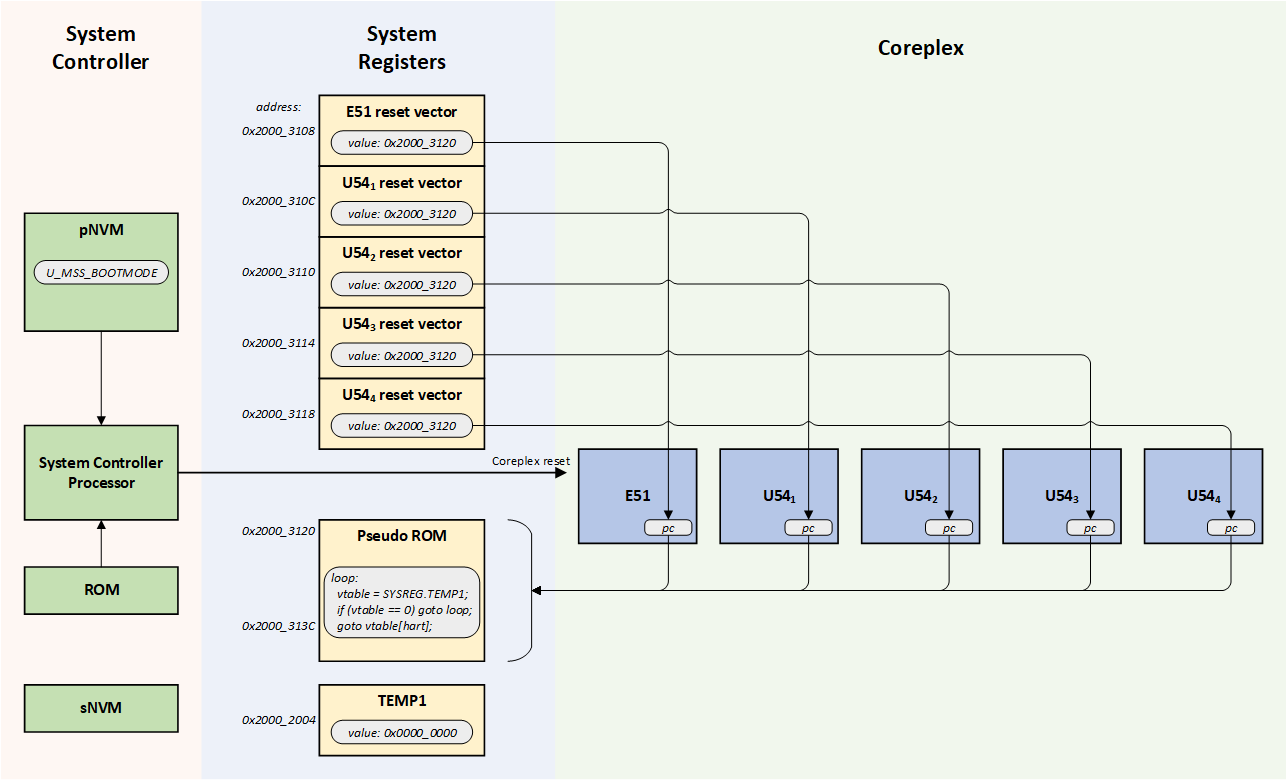
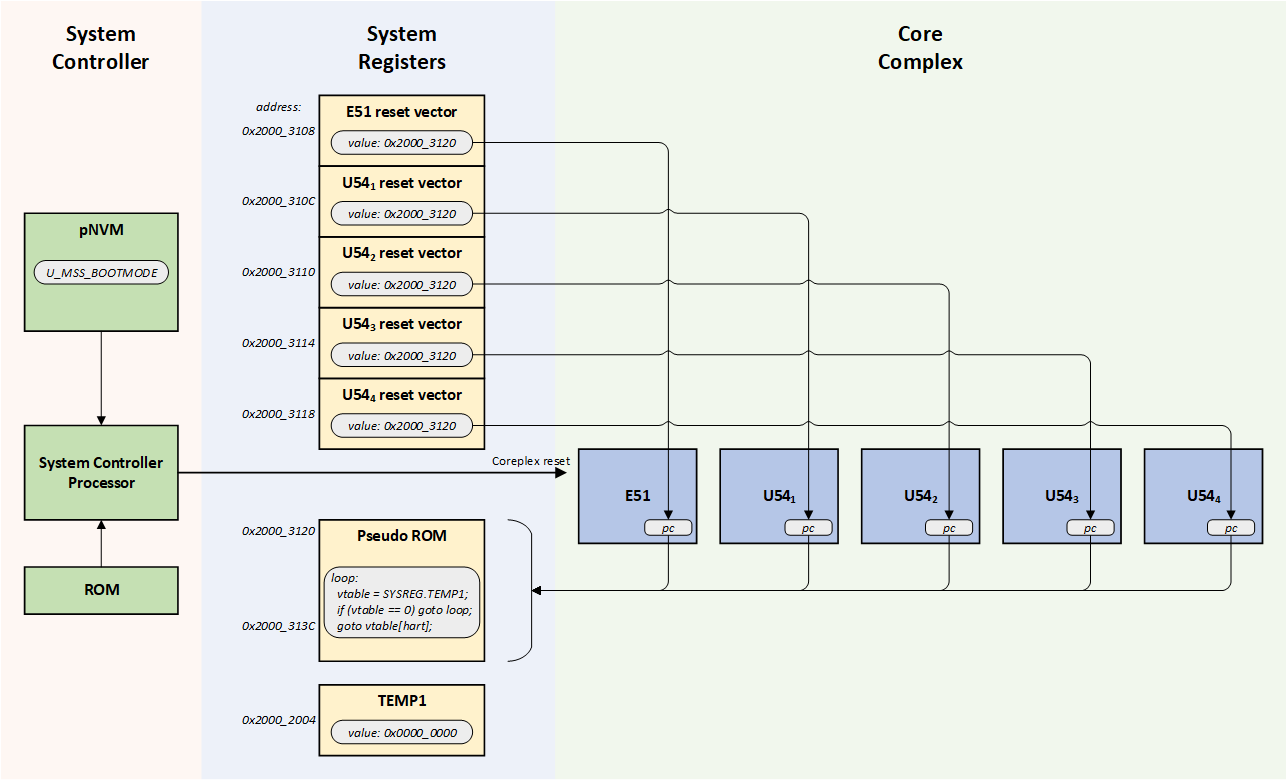
Updates following TM and HB feedback.

Changed region(s): [[0.0, 0.8615, 0.1554, 0.9538], [0.6838, 0.0308, 0.7459, 0.0923]]

diff --git a/fundamentals/boot-modes/boot-mode-2/boot-mode-2-fundamentals.md b/fundamentals/boot-modes/boot-mode-2/boot-mode-2-fundamentals.md
@@ -4,26 +4,28 @@
 PolarFire SoC boot mode 2 is intended for implementing user-defined secure boot authentication.
 
 ## Boot Mode 2 Sequence
-The PolarFire SoC System Controller executes first before the Coreplex harts when the device comes out of power-on reset. 
-
-
-The System Controller configures the PolarFire SoC device before releasing the Coreplex out of reset. It executes ROM code which configures the CoreComplex based on configuration data structures stored in its private Non-Volatile Memory (pNVM).
+On power up, the PolarFire SoC System Controller starts up and holds the MSS in reset until it has completed configuring the device. It executes ROM code which configures the Core Complex based on configuration data structures stored in its private Non-Volatile Memory (pNVM).
 
 In boot mode 2, the System Controller uses:
 
-- U_MSS_BOOT_MODE: determines whether boot mode 0, 1, 2 or 3 is used.
-- U_MSS_BOOT_CFG: contains boot configuration specific to the requested boot mode. In the case of boot mode 2, it contains the page offset at which the user boot loader image is secure non volatile memory.
+- U_MSS_BOOTMODE: determines whether boot mode 0, 1, 2 or 3 is used.
+- U_MSS_BOOTCFG: contains boot configuration specific to the requested boot mode. In the case of boot mode 2, it contains the page offset at which the user boot loader image is stored in secure non volatile memory.
 
-The mode 2 boot sequence is as follows:
+The boot mode 2 sequence is as follows:
 
-- The reset value of the pseudo BOOTROM system registers is a code loop.
-- The reset value of the system registers' reset vectors point to the base address of the pseudo BOOTROM
-- The reset value of the TEMP1 system register is zero.
-- The System Controller releases the Coreplex reset causing all harts to execute the code found in the pseudo BOOTROM system registers. The loop will keep executing until the content of the TEMP1 system register remains set to zero.
-- The System Controller copies the User Boot Loader (UBL) image from sNVM to on-chip RAM:
-	- The location of the UBL image in sNVM is specified in the U_MSS_BOOT_CFG
-	- The target address where the UBL is to be copied within on-chip RAM is found at the top of the UBL image. The length to copy is also found at the top of the UBL image
-- The System Controller sets the value of the TEMP1 System Register to the address of the UBL vector table within on-chip RAM. This results in the Coreplex harts executing the user boot loader.
+1.  Registers have the following reset values:
+    - Pseudo BOOTROM system registers is a code loop.
+    - System registers' reset vectors point to the base address of the pseudo BOOTROM
+    - TEMP1 system register is zero.
+2.  The System Controller releases the Core Complex reset:
+    - This causes all harts to execute the code found in the pseudo BOOTROM system registers.
+    - The loop will keep executing until the content of the TEMP1 system register remains set to zero.
+3.  The System Controller copies the User Boot Loader (UBL) image from sNVM to on-chip RAM:
+    - The location of the UBL image in sNVM is specified in the U_MSS_BOOTCFG
+    - The target address where the UBL is to be copied within on-chip RAM is found at the top of the UBL image.
+    - The length to copy is also found at the top of the UBL image
+4. The System Controller sets the value of the TEMP1 System Register to the address of the UBL vector table within on-chip RAM:
+    - This results in the Core Complex harts executing the user boot loader.
 
 The user boot loader typically authenticates the content of the eNVM before executing it.
 
@@ -31,5 +33,8 @@ The user boot loader typically authenticates the content of the eNVM before exec
 
 Notes:
 
-- The sNVM used to store the user boot loader must be marked as ROM in order to avoid it being modified by anything other than a suitable programming bitstream.
-- The device will boot in mode 0 and set the boot_fail tamper flag if the boot configuration data is invalid . Validity of the boot configuration data is checked through a digest check performed by the System Controller. Likewise, the device will remain in boot mode 0 if the recomputed hash of the user bootloader executable does not match the hash valid found before the UBL executable image.
+- The sNVM used to store the user boot loader must be marked as ROM in Libero in order to avoid it being modified by anything other than a suitable programming bitstream.
+- A digest check is performed by the System Controller to verify the validity of the boot configuration data when copying. The system controller will set the device to boot mode 0 and also set the boot_fail tamper flag if the re-computed hash of the boot configuration data does not match the computed hash of the user bootloader.
+- The MSS/Core Complex default clock configuration is 80MHz using the SCB clock source.
+- The System Controller's pNVM and sNVM content can only be modified through a programming bitstream. Neither pNVM nor sNVM content are directly accessible from the Core Complex.
+- The user boot loader image length held in sNVM is the number of 32 bits words of the executable unlike the boot mode 3 SBIC image length which is a byte count. 

diff --git a/fundamentals/boot-modes/boot-mode-0/boot-mode-0-fundamentals.md b/fundamentals/boot-modes/boot-mode-0/boot-mode-0-fundamentals.md
@@ -1,36 +1,30 @@
 # PolarFire SoC Boot Mode 0 Fundamentals
 
 ## Overview
-PolarFire SoC boot mode 0 is intended to handle blank devices. It prevents the MSS from executing invalid code until the debugger loads a valid executable in memory. Boot mode 0 puts the MSS in a mode where all harts execute a loop waiting for the debugger to connect through JTAG or for the device to be  programmed.
+PolarFire SoC boot mode 0 is intended for devices where code should not be executed on power on. Boot mode 0 puts the MSS in a mode where all harts execute a loop waiting for the debugger to connect through JTAG or for the device to be  programmed.
 
-Boot mode 0 can also be useful when debugging low level software through JTAG in order to prevent the system state from being modified between the system being powered up and the debug session starting.
+Blank devices use boot mode 0. Boot mode 0 can also be useful when debugging low level software through JTAG in order to prevent the system state from being modified between the system being powered up and the debug session starting.
 
 
 ## Boot Mode 0 Sequence
-The PolarFire SoC System Controller executes first before the Coreplex harts when the device comes out of power-on reset. 
+On power up, the PolarFire SoC System Controller starts up and holds the MSS in reset until it has completed configuring the device. It executes ROM code which configures the Core Complex based on configuration data structures stored in its private Non-Volatile Memory (pNVM).
 
-The System Controller configures the PolarFire SoC device before releasing the Coreplex out of reset. It executes ROM code which configures the Coreplex based on configuration data structures stored in its private Non-Volatile Memory (pNVM). In boot mode 0, the System Controller only uses the U_MSS_BOOT_CFG configuration item stored in pNVM to control the Coreplex boot process: The U_MSS_BOOTMODE configuration item determines whether boot mode 0, 1, 2 or 3 is used.
+In boot mode 0, the System Controller only uses the U_MSS_BOOTMODE configuration item stored in pNVM to control the Core Complex boot process: The U_MSS_BOOTMODE configuration item determines whether boot mode 0, 1, 2 or 3 is used.
 
-The mode 0 boot sequence is as follows:
+The boot mode 0 sequence is as follows:
 
-- The reset value of the pseudo BOOTROM system registers is a code loop. 
-- The reset value of the system registers' reset vectors point to the base address of the pseudo BOOTROM
-- The reset value of the TEMP1 system register is zero.
-- The System Controller releases the Coreplex reset causing all harts to execute the code found in the pseudo BOOTROM system registers. The loop will keep executing until the content of the TEMP1 system register remains set to zero.
-
-
-
-
-
+1.  Registers have the following reset values:
+    - Pseudo BOOTROM system registers is a code loop.
+    - System registers' reset vectors point to the base address of the pseudo BOOTROM
+    - TEMP1 system register is zero.
+ 2. The System Controller releases the Core Complex reset causing all harts to execute the code found in the pseudo BOOTROM system registers.
+     - The loop will keep executing until the content of the TEMP1 system register remains set to zero.
 
 ![](./images/boot-mode-0.png) 
 
-The Coreplex harts will remain executing the pseudo BOOTROM loop until the debugger sets the hart's program counters to new values.
+The Core Complex harts will remain executing the pseudo BOOTROM loop until the debugger sets the hart's program counters to new values.
 
 Notes:
 
-- The System Controller's pNVM content can only be modified through a programming bitstream. Neither pNVM nor sNVM content are directly accessible from the Coreplex.
-- The MSS/Coreplex default clock configuration is 80MHz using the SCB clock source.
-
-
-
+- The System Controller's pNVM content can only be modified through a programming bitstream. Neither pNVM nor sNVM content are directly accessible from the Core Complex.
+- The MSS/Core Complex default clock configuration is 80MHz using the SCB clock source.

diff --git a/fundamentals/boot-modes/boot-mode-1/boot-mode-1-fundamentals.md b/fundamentals/boot-modes/boot-mode-1/boot-mode-1-fundamentals.md
@@ -1,24 +1,25 @@
 # PolarFire SoC Boot Mode 1
 
 ## Overview
-PolarFire SoC boot mode 1 is used where the Microprocessor Subsystem (MSS) harts start executing code from eNVM.
+PolarFire SoC boot mode 1 is used where the Microprocessor Subsystem (MSS) harts start executing non-secured code from eNVM on power up.
 
 ## Boot Mode 1 Sequence
-The PolarFire SoC System Controller executes first before the Coreplex harts when the device comes out of power-on reset. 
-
-
-The System Controller configures the PolarFire SoC device before releasing the Coreplex out of reset. It executes ROM code which configures the CoreComplex based on configuration data structures stored in its Private Non-Volatile Memory (pNVM).
+On power up, the PolarFire SoC System Controller starts up and holds the MSS in reset until it has completed configuring the device. It executes ROM code which configures the Core Complex based on configuration data structures stored in its private Non-Volatile Memory (pNVM).
 
 In boot mode 1, the System Controller uses:
 
-- U_MSS_BOOT_MODE: determines whether boot mode 0, 1, 2 or 3 is used.
-- U_MSS_BOOT_CFG: contains boot configuration specific to the requested boot mode. In the case of boot mode 1, it contains the reset vectors for all 5 harts.
+- U_MSS_BOOTMODE: determines whether boot mode 0, 1, 2 or 3 is used.
+- U_MSS_BOOTCFG: contains boot configuration specific to the requested boot mode. In the case of boot mode 1, it contains the reset vectors for all 5 harts.
 
 For boot mode 1, the System Controller:
 
-- Sets the content of the System Registers' reset vector register from the values found in U_MSS_BOOT_CFG configuration data structure held in pNVM.
-- Releases the Coreplex reset causing all harts to execute the code found in eNVM. 
+1. Reads the value of U_MSS_BOOTMODE and proceeds to the following step if boot mode is 1.
+2. Sets the content of the System Registers' reset vector register from the values found in U_MSS_BOOTCFG configuration data structure held in pNVM.
+3. Releases the Core Complex reset causing all harts to execute the code found in eNVM. 
 
 ![](./images/boot-mode-1.png) 
 
-Please note that the System Controller's pNVM and sNVM content can only be modified through a programming bitstream. Neither pNVM nor sNVM content is directly accessible from the Coreplex.
+Notes:
+
+- The System Controller's pNVM content can only be modified through a programming bitstream. The pNVM content is not directly accessible from the Core Complex.
+- The MSS/Core Complex default clock configuration is 80MHz using the SCB clock source.
